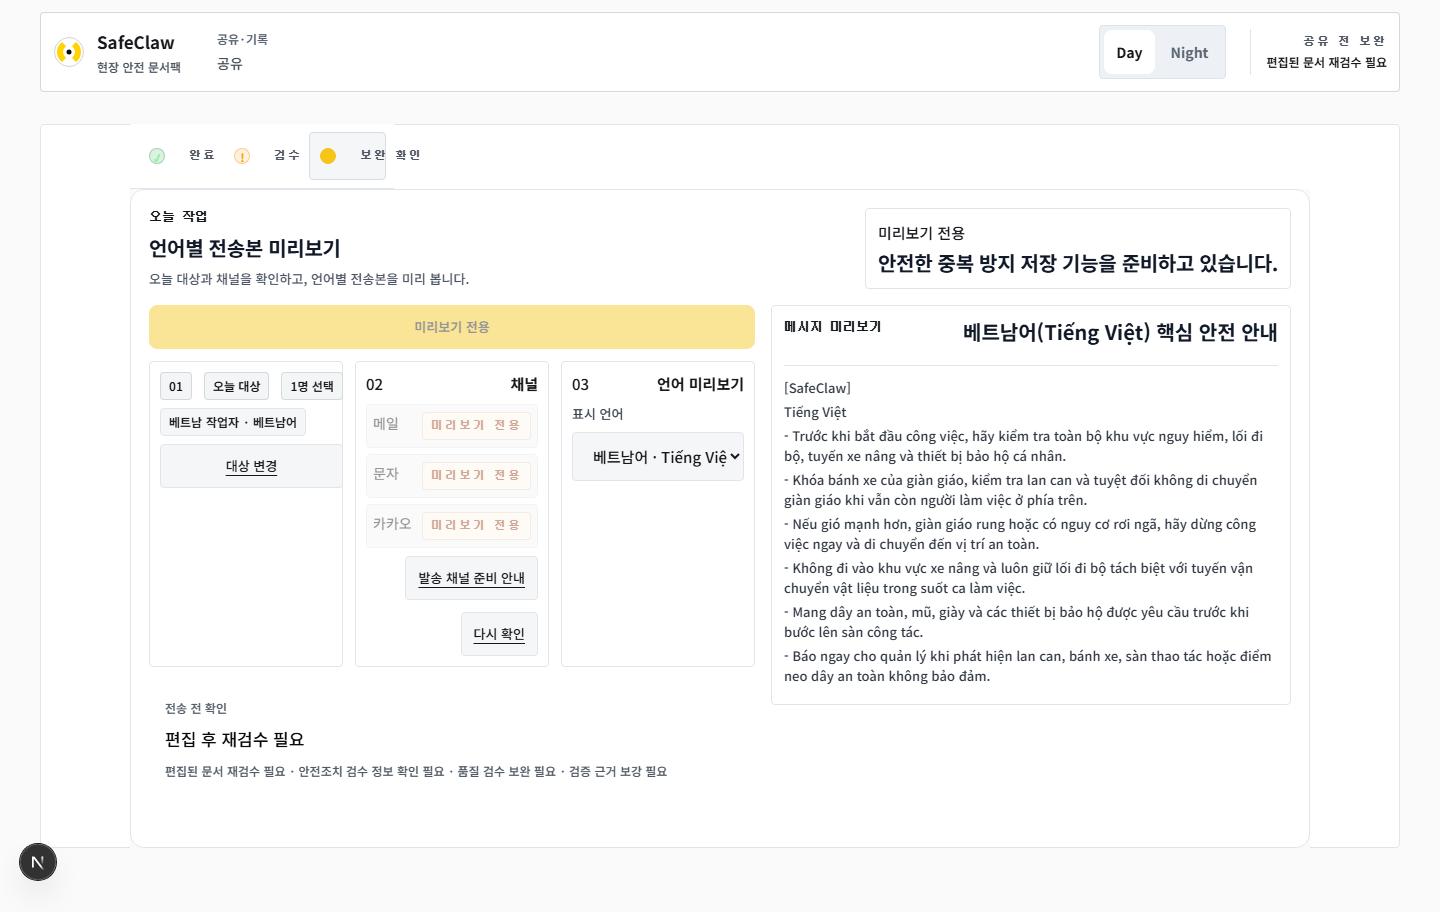
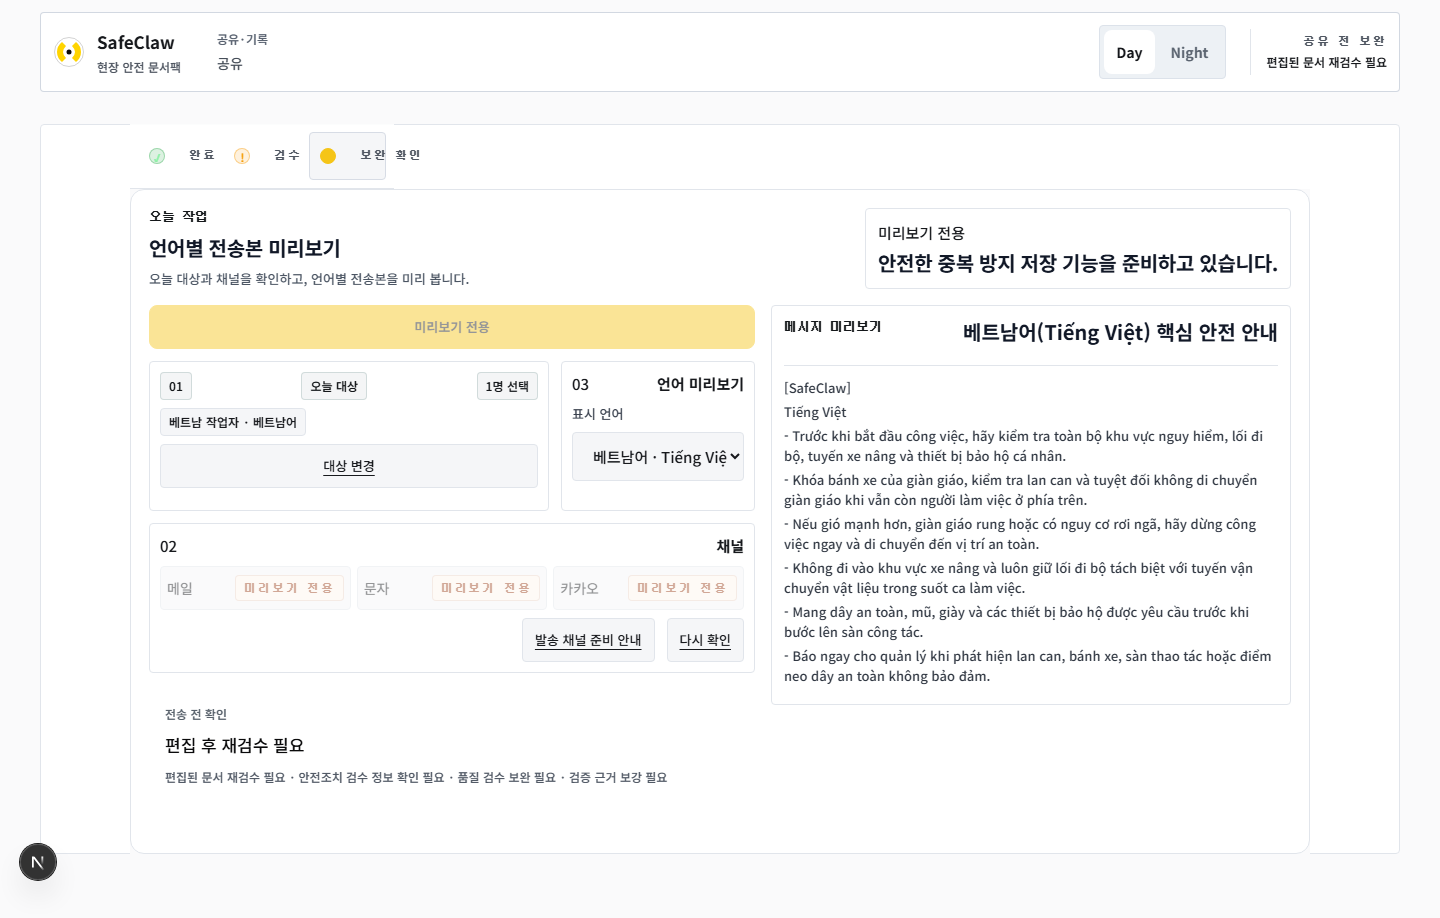
fix: widen share desktop channel composition

diff --git a/app/globals.css b/app/globals.css
@@ -14996,6 +14996,20 @@ body:has(.safeclaw-landing) :is(
     padding: 10px;
   }
 
+  .command-center-shell.workspace-page-share .share-form-card[data-share-owner="targets"] {
+    grid-column: 1 / span 2;
+  }
+
+  .command-center-shell.workspace-page-share .share-form-card[data-share-owner="language-preview"] {
+    grid-column: 3;
+  }
+
+  .command-center-shell.workspace-page-share .share-form-card[data-share-owner="channels"] {
+    grid-column: 1 / -1;
+    grid-row: 3;
+    min-height: auto;
+  }
+
   .command-center-shell.workspace-page-share .share-form-card > p.muted.small,
   .command-center-shell.workspace-page-share .share-panel.workflow-panel .channel-readiness-note {
     display: none;
@@ -15007,12 +15021,13 @@ body:has(.safeclaw-landing) :is(
   }
 
   .command-center-shell.workspace-page-share .share-panel.workflow-panel .channel-grid {
-    grid-template-columns: minmax(0, 1fr);
+    grid-template-columns: repeat(3, minmax(0, 1fr));
     gap: 6px;
   }
 
   .command-center-shell.workspace-page-share .share-panel.workflow-panel .channel-card {
     display: flex;
+    align-items: center;
     justify-content: space-between;
     gap: 8px;
     min-height: 44px;

diff --git a/evaluation/share-desktop-composition-2026-07-21/report.md b/evaluation/share-desktop-composition-2026-07-21/report.md
@@ -1,0 +1,45 @@
+# Share Desktop Composition Gate
+
+Checked at: 2026-07-21 KST
+
+## Verdict
+
+`PASS_CURRENT_SOURCE`
+
+The `/workspace` share step no longer relies on a narrow mobile-like channel stack on desktop. The desktop share composition keeps the two-pane shell, keeps message preview on the right pane, and stretches the channel selector across the full left workflow area so the three channel cards remain readable.
+
+This does not claim live provider dispatch. It is a layout/composition gate only.
+
+## Product change
+
+- `app/globals.css`
+  - Desktop `/workspace` share page keeps the right preview pane.
+  - The left workflow area now uses:
+    - row 1: recipients + language preview
+    - row 2: full-width channel selector
+  - The channel selector uses three readable desktop cards instead of a one-column mobile-style rail.
+
+## Verification
+
+- `npm.cmd test -- tests\workspace-share-simplification.test.ts --maxWorkers=1 --fileParallelism=false`
+  - 1 file / 11 tests PASS
+- `npm.cmd test -- tests\workspace-share-mobile-browser.test.ts --maxWorkers=1 --fileParallelism=false`
+  - 1 file / 4 tests PASS
+
+## Key browser metrics
+
+From refreshed `evaluation/share-mobile-p1/desktop-day-share-config-collapse-metrics.json`:
+
+- Desktop viewport: 1440x900
+- Share preview remains in the right pane: `previewLeft = 771`
+- Primary action remains in the left workflow area: `primaryRight = 755`
+- Channel card widths: `191 / 191 / 191`
+- Channel card heights: `44 / 44 / 44`
+- Horizontal overflow: `0`
+- Page height: `918` (`1.02x` viewport height)
+
+## Remaining debt
+
+- This closes the desktop “mobile-like share channel stack” slice only.
+- `/share` still needs a broader action-mode design review if the desired product direction is a full staged wizard with separate recipient, language, message, and send states.
+- Live provider dispatch remains approval/configuration gated.
